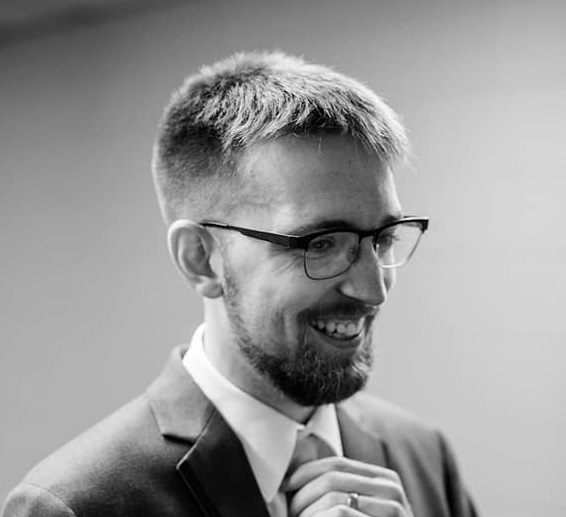
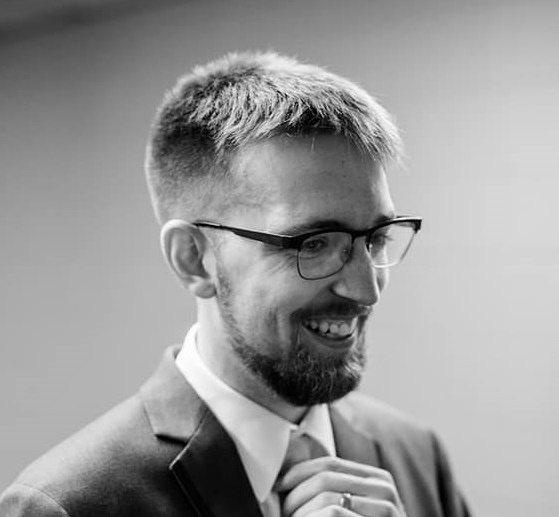
Carousel Responsive Update
Made images in the carousel more responsive.

diff --git a/final-react-portfolio/src/component/CarouselContainer.css b/final-react-portfolio/src/component/CarouselContainer.css
@@ -1,5 +1,6 @@
 img{
-    height: 325px;
+    width: 100%;
+    max-height: 580px;
     background-color: rgb(209, 209, 209);
 }
 
@@ -12,25 +13,7 @@ img{
     display: none;
 }
 
-@media all and (min-width: 515px) {
-    img{
-        height: 400px;
-    }
-}
-
-@media all and (min-width: 712px) {
-    img{
-        height: 500px;
-    }
-}
-
-@media all and (min-width: 890px) {
-    img{
-        height: 600px;
-    }
-}
-
-@media all and (min-width: 961px) {
+@media all and (min-width: 652px) {
     .carDiv{
         margin-left: 15%;
         margin-right: 15%;
@@ -38,35 +21,29 @@ img{
         margin-bottom: 2%;
     }
 
-    .carDiv h1{
-        display: block;
-    }
-
-    img{
-        height: 400px;
-        border-radius: 10px;
+    .img{
+        border-radius: 40px;
     }
 }
 
-@media all and (min-width: 1160px) {
-    img{
-        height: 500px;
-    }
-}
-
-@media all and (min-width: 1352px) {
+@media all and (min-width: 844px) {
     .carDiv{
-        margin-right: 18%;
-        margin-left: 18%;
-    }
-
-    img{
-        height: 550px;
+        margin-left: 20%;
+        margin-right: 20%;
     }
 }
 
-@media all and (min-width: 1500px) {
-    img{
-        height: 580px;
+@media all and (min-width: 1070px) {
+    .carDiv{
+        margin-left: 25%;
+        margin-right: 25%;
     }
 }
+
+@media all and (min-width: 1273px) {
+    .carDiv{
+        margin-left: 30%;
+        margin-right: 30%;
+    }
+}
+

diff --git a/final-react-portfolio/src/component/Sections/Skills/Skills.css b/final-react-portfolio/src/component/Sections/Skills/Skills.css
@@ -10,7 +10,7 @@
     padding: 5px;
 }
 
-@media all and (min-width: 1004px) {
+@media all and (min-width: 768px) {
     .tileHolder{
         grid-template-columns: auto auto auto;
     }
